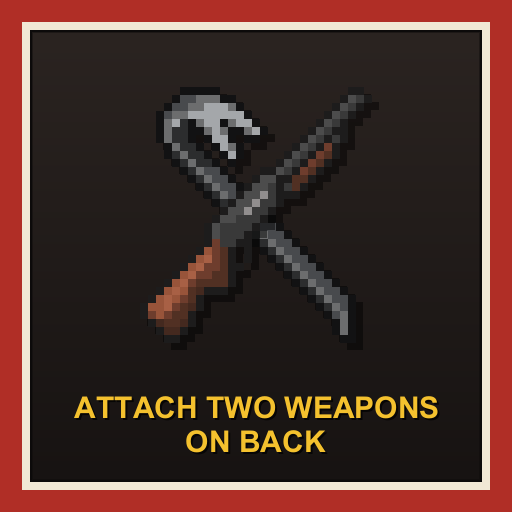
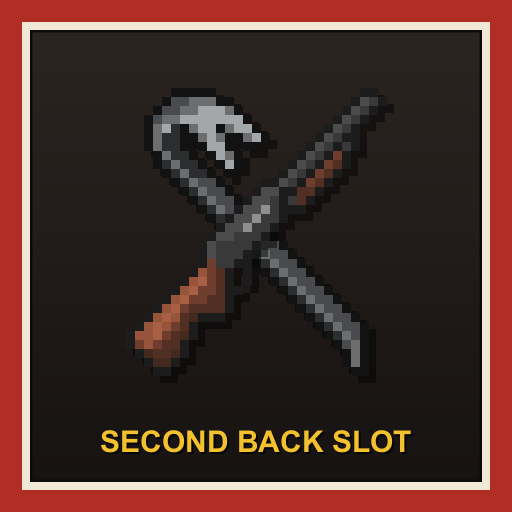
Name change

Changed region(s): [[0.25, 0.1875, 0.75, 0.7188], [0.125, 0.75, 0.875, 0.9062]]

diff --git a/README.md b/README.md
@@ -1,4 +1,4 @@
-# Attach Two Weapons On Back
+# Second Back Slot
 
 Project Zomboid (Build 42) mod that adds a second back slot to the hotbar, so you can carry two weapons on your back, like a shotgun and a crowbar, each on its own hotbar key.
 
@@ -19,7 +19,7 @@ Project Zomboid (Build 42) mod that adds a second back slot to the hotbar, so yo
 |---|---|---|
 | Required Strength Level | 0-10 | 0 |
 
-The Strength level a character needs for Back 2; 0 means every character has it from the start. Strength is the skill that sets how much a character can carry. Only the level in the Skills panel counts (`getPerkLevel`, which both read): moodles like hunger, starving or nicotine withdrawal do not change it. In B42.21 that level only goes down through the XP decay below or debug and admin tools, since `XP.AddXP` takes a level away only when XP drops under the level's threshold, and the decay is the only thing that removes Strength or Fitness XP. The slot shows up when the level is reached and goes away if Strength drops below it: its item then comes off the back and stays in the inventory, and the slot comes back once Strength is trained back up. That is rare: the game only takes Strength XP from a character who has not trained it for about 7 in-game weeks, 1 XP every 20 in-game hours (`XpUpdate.everyTenMinutes`, B42.21). This is checked when the hotbar is made and every in-game minute, but not during a timed action, which may be about to use a slot.
+The Strength level a character needs for Back 2; 0 means every character has it from the start. Strength is the skill that sets how much a character can carry. Only the level in the Skills panel counts (`getPerkLevel`, which both read): moodles like hunger, starving or nicotine withdrawal do not change it. In B42.21 that level only goes down through the XP decay below or debug and admin tools, since `XP.AddXP` takes a level away only when XP drops under the level's threshold, and the decay is the only thing that removes Strength or Fitness XP. The slot shows up when the level is reached and goes away if Strength drops below it: its item then comes off the back and stays in the inventory, and the slot comes back once Strength is trained back up. That is rare: the game only takes Strength XP from a character who has not trained it for about 7 in-game weeks, 1 XP every 20 in-game hours (`XpUpdate.everyTenMinutes`, B42.21). This is checked when the hotbar is made and in its `update()`, which runs every frame, so the slot follows right away. During a timed action, which may be about to use a slot index, it waits until the action is done.
 
 ## How it works
 
